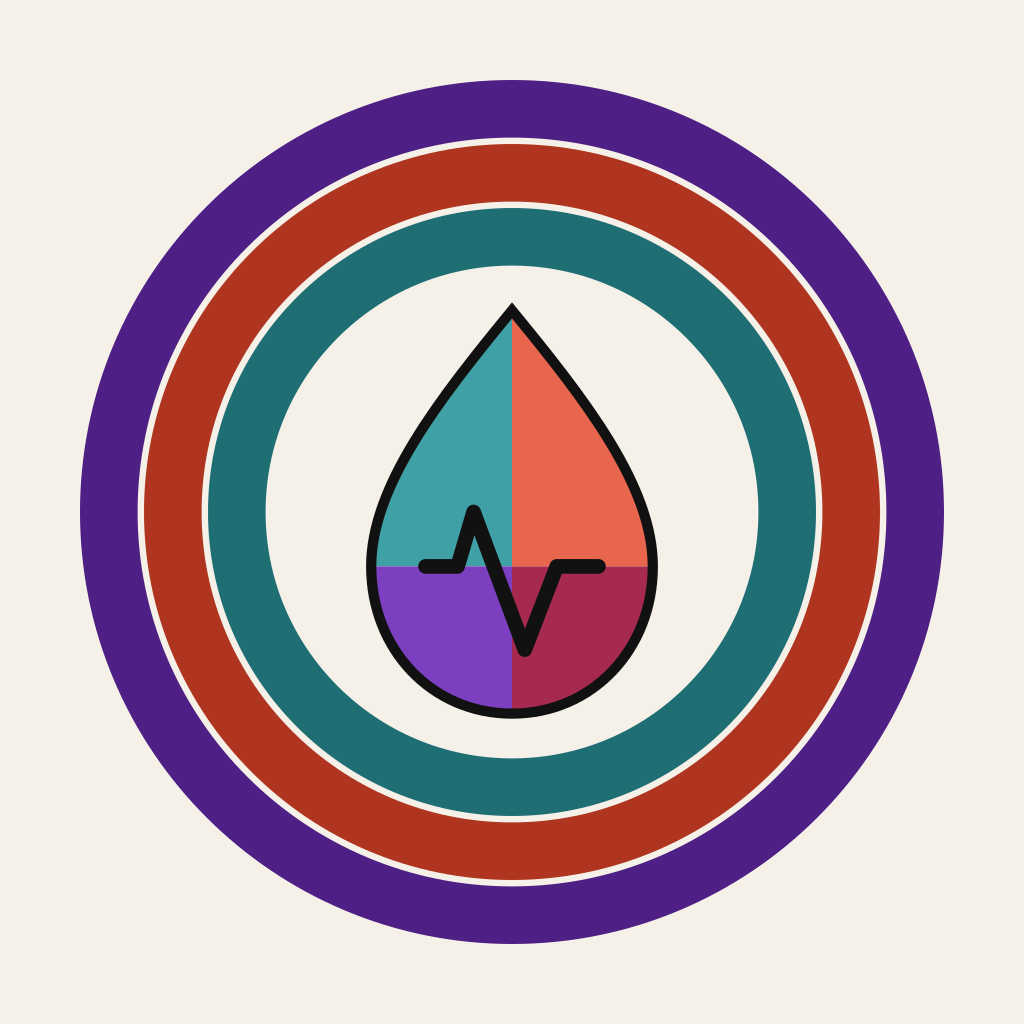
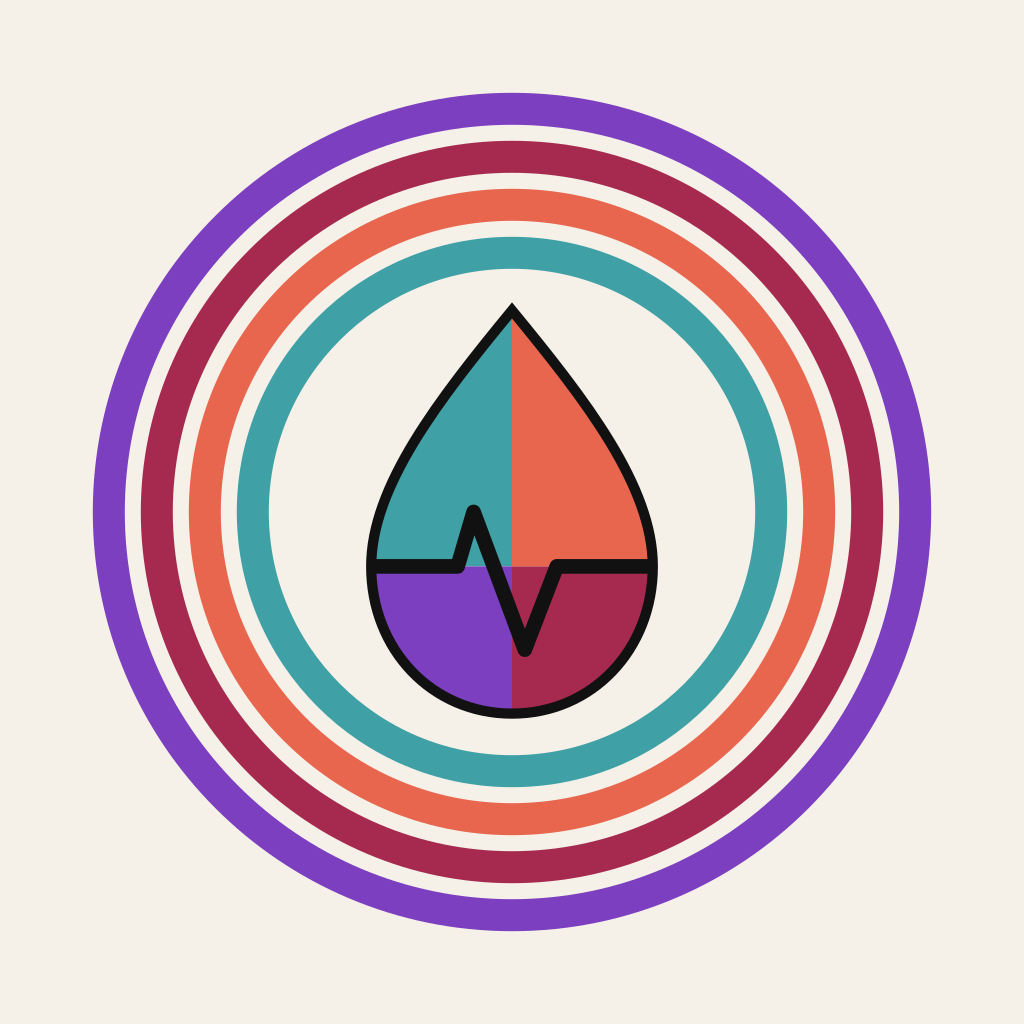
fix: clip ECG line to droplet border and extend to full width
Heartbeat line now reaches both edges of the droplet (x=76 to x=164)
with a clipPath preventing the round linecaps from overshooting the outline.
AppLogo.tsx updated to match.

diff --git a/app/src/components/AppLogo.tsx b/app/src/components/AppLogo.tsx
@@ -24,7 +24,7 @@ export function AppLogo({ size = 100 }: Props) {
           strokeWidth="3.2"
         />
         <Path
-          d="M93 120 L103 120 L108 103 L124 146 L134 120 L147 120"
+          d="M76 120 L103 120 L108 103 L124 146 L134 120 L164 120"
           stroke="#111111"
           strokeWidth="4.6"
           fill="none"
